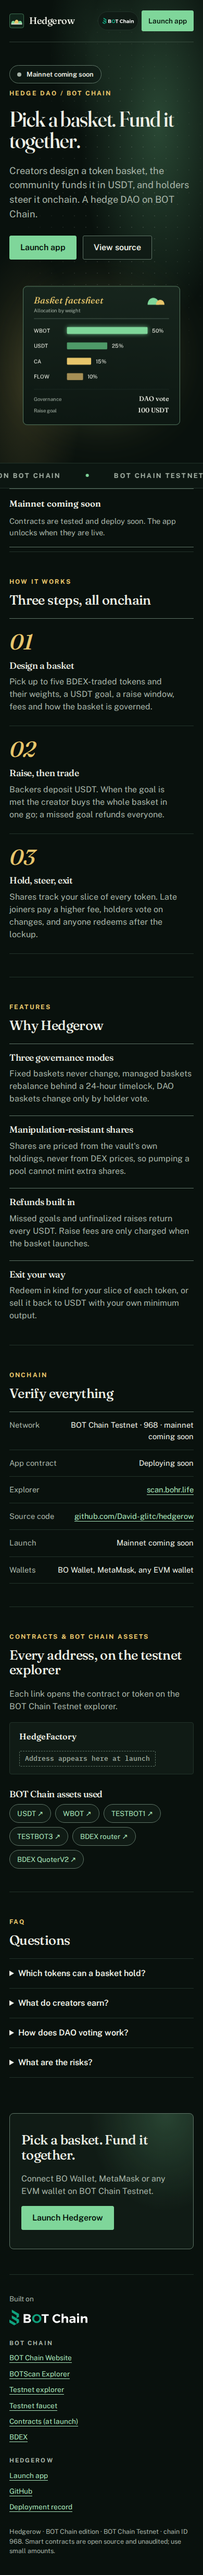
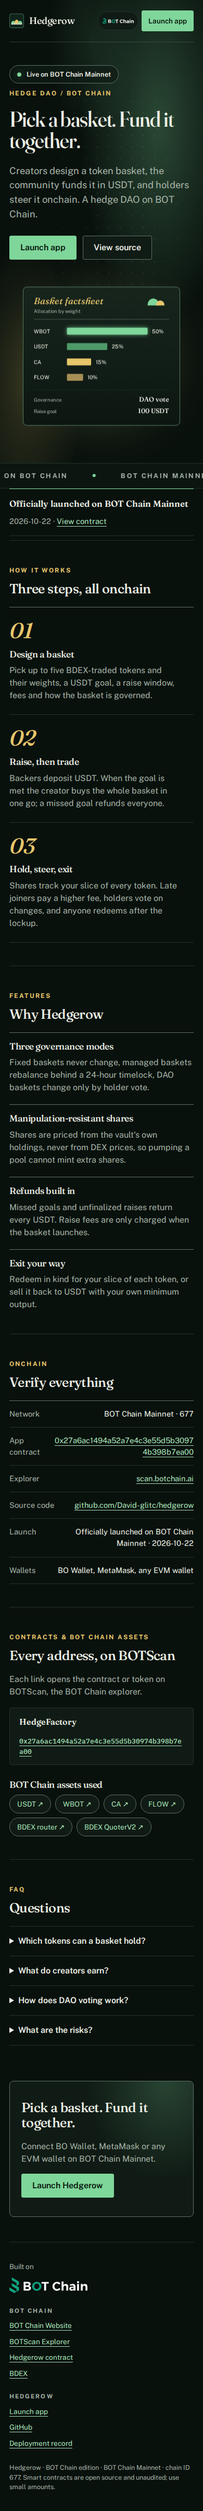
Officially launched on BOT Chain Mainnet

diff --git a/README.md b/README.md
@@ -2,7 +2,7 @@
 
 **Pick a basket. Fund it together.** Creators design a token basket, the community funds it in USDT, and holders steer it onchain. A hedge DAO on BOT Chain.
 
-**Status:** contracts are tested on a BOT Chain mainnet fork; the mainnet deployment is pending.
+**Officially launched on BOT Chain Mainnet** on 2026-10-22.
 
 - Website and app: https://hedgerowbot.vercel.app (app at [`/app/`](https://hedgerowbot.vercel.app/app/))
 - Network: BOT Chain mainnet, chain ID 677 · [BOT Chain](https://www.botchain.ai/) · [BOTScan](https://scan.botchain.ai/)
@@ -26,9 +26,9 @@
 
 | Contract | BOT Chain mainnet |
 |---|---|
-| `HedgeFactory` | Pending mainnet deployment |
+| `HedgeFactory` | [`0x27a6ac1494a52a7e4c3e55d5b30974b398b7ea00`](https://scan.botchain.ai/address/0x27a6ac1494a52a7e4c3e55d5b30974b398b7ea00) |
 
-BOT Chain infrastructure used: USDT `0x75edC9335175Fc0552D51D48439F229c10420fe3`, WBOT `0xD5452816194a3784dBa983426cCe7c122F4abd30`, BDEX router `0x07032d47A1b9f8460cBeE9dC17c1d3E438693929`, BDEX QuoterV2 `0x034A705b36067cff99ABf5C662Be881cBd8d0176`.
+BOT Chain infrastructure used: USDT `0xaBabc7Ddc03e501d190C676BF3d92ef0e6e87a3C`, WBOT `0xD5452816194a3784dBa983426cCe7c122F4abd30`, BDEX router `0x07032d47A1b9f8460cBeE9dC17c1d3E438693929`, BDEX QuoterV2 `0x034A705b36067cff99ABf5C662Be881cBd8d0176`.
 
 Source: [`contracts/src`](contracts/src). Tests: [`contracts/test`](contracts/test). The contracts are unaudited; use small amounts.
 
